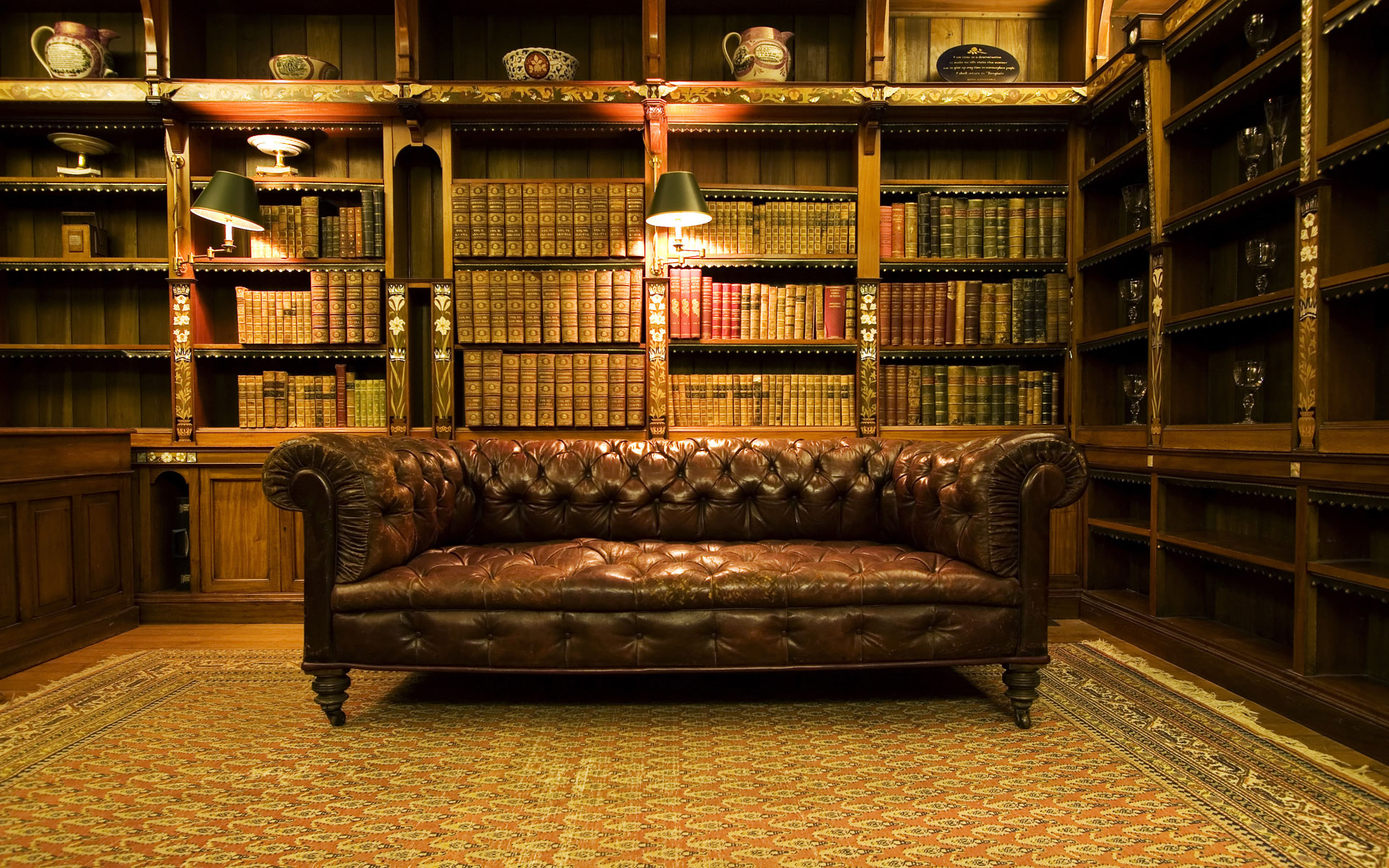
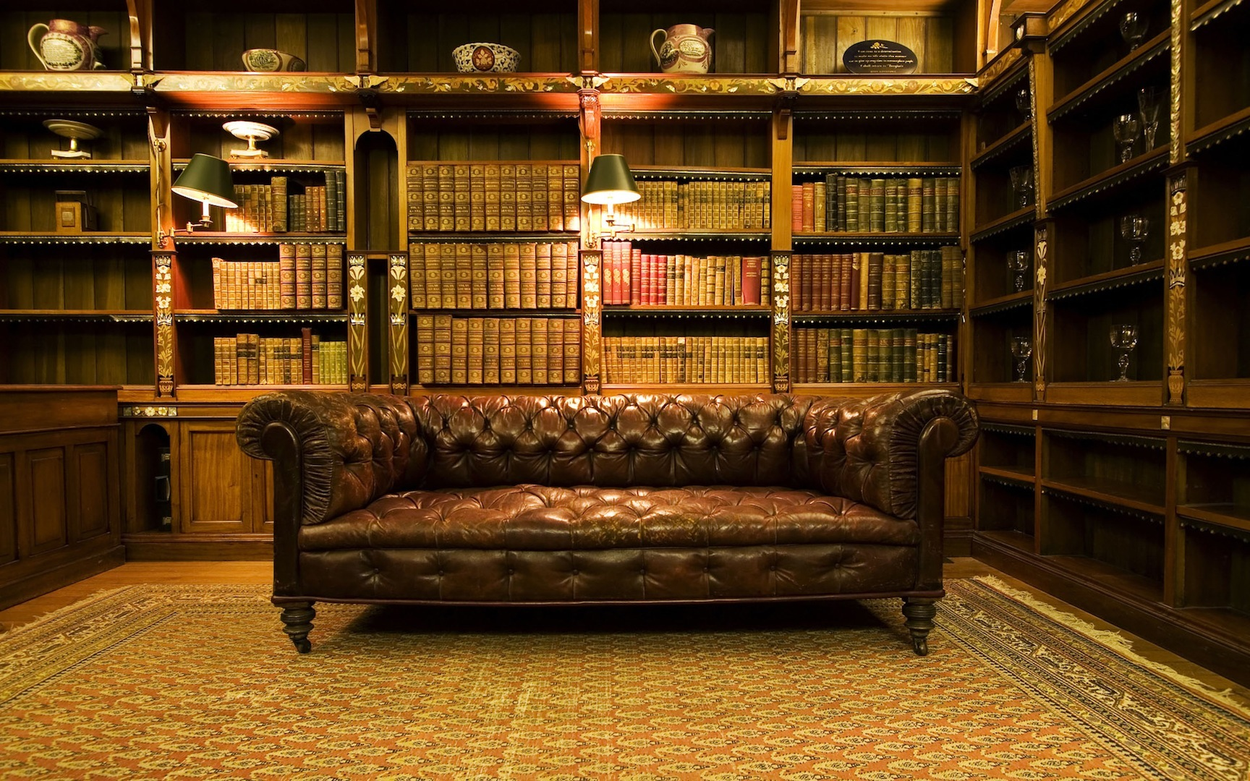
Game Intro
Game conducts a survey then takes them into the tour and starts the game

diff --git a/actionn.js b/actionn.js
@@ -41,127 +41,163 @@ function answer()
     } 
  }
 function timer(){
-  y = 10
- while(y > 0){
- y = y - 1;
- if(y <=0){
  document.getElementById( 'text' ).style.visibility = 'visible';
-       } 
-     }
+ document.getElementById( 'start' ).style.visibility = 'hidden';
+ document.getElementById( 'button' ).style.visibility = 'hidden';
+ image();
   }
+  function show(){
+   document.getElementById( 'button' ).style.visibility = 'visible';
+ }
+ function create(){
+  document.getElementById( 'input' ).style.visibility = 'visible';
+   document.getElementById( 'text' ).style.visibility = 'hidden';
+ 
+ 
+ }
+  
+  
   function hide(){
   document.getElementById( 'input' ).style.visibility = 'hidden';
   document.getElementById( 'text' ).style.visibility = 'hidden';
+  document.getElementById( 'button' ).style.visibility = 'hidden'
  }
   function start(){
    name=document.getElementById('nameBox').value
    if(document.getElementById('cs').checked===true && document.getElementById('jock').checked===true && document.getElementById('pen').checked===true ){
        document.getElementById('put').innerHTML= 'Hello '+name+' your major is computer science,<br> you are a jock, and you now have a pencil!';
        errors();
+       show();
        }
     else if(document.getElementById('cs').checked===true && document.getElementById('jock').checked===true && document.getElementById('phone').checked===true ){
        document.getElementById('put').innerHTML= 'Hello '+name+' your major is computer science,<br> you are a jock, and you now have a phone!';
        errors();
+       show();
        }
     else if(document.getElementById('cs').checked===true && document.getElementById('jock').checked===true && document.getElementById('rule').checked===true ){
        document.getElementById('put').innerHTML= 'Hello '+name+' your major is computer science,<br> you are a jock, and you now have a ruler!';
        errors();
+       show();
        }
     else if(document.getElementById('cs').checked===true && document.getElementById('nerd').checked===true && document.getElementById('pen').checked===true ){
        document.getElementById('put').innerHTML= 'Hello '+name+' your major is computer science,<br> you are a nerd, and you now have a pencil!';
        errors();
+       show();
        }
     else if(document.getElementById('cs').checked===true && document.getElementById('nerd').checked===true && document.getElementById('phone').checked===true ){
        document.getElementById('put').innerHTML= 'Hello '+name+' your major is computer science,<br> you are a nerd, and you now have a phone!';
        errors();
+       show();
        }
     else if(document.getElementById('cs').checked===true && document.getElementById('nerd').checked===true && document.getElementById('rule').checked===true ){
        document.getElementById('put').innerHTML= 'Hello '+name+' your major is computer science,<br> you are a nerd, and you now have a ruler!';
        errors();
+       show();
        }
     else if(document.getElementById('cs').checked===true && document.getElementById('pop').checked===true && document.getElementById('pen').checked===true ){
        document.getElementById('put').innerHTML= 'Hello '+name+' your major is computer science,<br> you are a popular kid, and you now have a pencil!';
        errors();
+       show();
        }
     else if(document.getElementById('cs').checked===true && document.getElementById('pop').checked===true && document.getElementById('phone').checked===true ){
        document.getElementById('put').innerHTML= 'Hello '+name+' your major is computer science,<br> you are a popular kid, and you now have a phone!';
        errors();
+       show();
        }
     else if(document.getElementById('cs').checked===true && document.getElementById('pop').checked===true && document.getElementById('rule').checked===true ){
        document.getElementById('put').innerHTML= 'Hello '+name+' your major is computer science,<br> you are a popular kid, and you now have a ruler!';
        errors();
+       show();
        }
     else if(document.getElementById('eng').checked===true && document.getElementById('jock').checked===true && document.getElementById('pen').checked===true ){
        document.getElementById('put').innerHTML= 'Hello '+name+' your major is english,<br> you are a jock, and you now have a pencil!';
        errors();
+       show();
        }
     else if(document.getElementById('eng').checked===true && document.getElementById('jock').checked===true && document.getElementById('phone').checked===true ){
        document.getElementById('put').innerHTML= 'Hello '+name+' your major is english,<br> you are a jock, and you now have a phone!';
        errors();
+       show();
        }
     else if(document.getElementById('eng').checked===true && document.getElementById('jock').checked===true && document.getElementById('rule').checked===true ){
        document.getElementById('put').innerHTML= 'Hello '+name+' your major is english,<br> you are a jock, and you now have a ruler!';
        errors();
+       show();
        }
     else if(document.getElementById('eng').checked===true && document.getElementById('nerd').checked===true && document.getElementById('pen').checked===true ){
        document.getElementById('put').innerHTML= 'Hello '+name+' your major is english,<br> you are a nerd, and you now have a pencil!';
        errors();
+       show();
        }
     else if(document.getElementById('eng').checked===true && document.getElementById('nerd').checked===true && document.getElementById('phone').checked===true ){
        document.getElementById('put').innerHTML= 'Hello '+name+' your major is english,<br> you are a nerd, and you now have a phone!';
        errors();
+       show();
        }
     else if(document.getElementById('eng').checked===true && document.getElementById('nerd').checked===true && document.getElementById('rule').checked===true ){
        document.getElementById('put').innerHTML= 'Hello '+name+' your major is english,<br> you are a nerd, and you now have a ruler!';
        errors();
+       show();
        }
     else if(document.getElementById('eng').checked===true && document.getElementById('pop').checked===true && document.getElementById('pen').checked===true ){
        document.getElementById('put').innerHTML= 'Hello '+name+' your major is english,<br> you are a popular kid, and you now have a pencil!';
        errors();
+       show();
        }
     else if(document.getElementById('eng').checked===true && document.getElementById('pop').checked===true && document.getElementById('phone').checked===true ){
        document.getElementById('put').innerHTML= 'Hello '+name+' your major is english,<br> you are a popular kid, and you now have a phone!';
        errors();
+       show();
        }
     else if(document.getElementById('eng').checked===true && document.getElementById('pop').checked===true && document.getElementById('rule').checked===true ){
        document.getElementById('put').innerHTML= 'Hello '+name+' your major is english,<br> you are a popular kid, and you now have a ruler!';
        errors();
+        show();
        }
     else if(document.getElementById('math').checked===true && document.getElementById('jock').checked===true && document.getElementById('pen').checked===true ){
        document.getElementById('put').innerHTML= 'Hello '+name+' your major is math,<br> you are a jock, and you now have a pencil!';
        errors();
+        show();
        }
     else if(document.getElementById('math').checked===true && document.getElementById('jock').checked===true && document.getElementById('phone').checked===true ){
        document.getElementById('put').innerHTML= 'Hello '+name+' your major is math,<br> you are a jock, and you now have a phone!';
        errors();
+        show();
        }
     else if(document.getElementById('math').checked===true && document.getElementById('jock').checked===true && document.getElementById('rule').checked===true ){
        document.getElementById('put').innerHTML= 'Hello '+name+' your major is math,<br> you are a jock, and you now have a ruler!';
        errors();
+        show();
        }
      else if(document.getElementById('math').checked===true && document.getElementById('nerd').checked===true && document.getElementById('pen').checked===true ){
        document.getElementById('put').innerHTML= 'Hello '+name+' your major is math,<br> you are a nerd, and you now have a pencil!';
        errors();
+        show();
        }
      else if(document.getElementById('math').checked===true && document.getElementById('nerd').checked===true && document.getElementById('phone').checked===true ){
        document.getElementById('put').innerHTML= 'Hello '+name+' your major is math,<br> you are a nerd, and you now have a phone!';
        errors();
+        show();
        }
      else if(document.getElementById('math').checked===true && document.getElementById('nerd').checked===true && document.getElementById('rule').checked===true ){
        document.getElementById('put').innerHTML= 'Hello '+name+', your major is math,<br> you are a nerd, and you now have a ruler!';
        errors();
+        show();
        }
      else if(document.getElementById('math').checked===true && document.getElementById('pop').checked===true && document.getElementById('pen').checked===true ){
        document.getElementById('put').innerHTML= 'Hello '+name+' your major is math,<br> you are a popular kid, and you now have a pencil!';
        errors();
+        show();
        }
      else if(document.getElementById('math').checked===true && document.getElementById('pop').checked===true && document.getElementById('phone').checked===true ){
        document.getElementById('put').innerHTML= 'Hello '+name+' your major is math,<br> you are a popular kid, and you now have a phone!';
        errors();
+        show();
        }
     else if(document.getElementById('math').checked===true && document.getElementById('pop').checked===true && document.getElementById('rule').checked===true ){
        document.getElementById('put').innerHTML= 'Hello '+name+' your major is math,<br> you are a popular kid, and you now have a ruler!';
        errors();
+        show();
        }
    
    
@@ -172,23 +208,35 @@ function timer(){
     
 }
 
+function NoMoreThanOne($in1, $in2, $in3){
+	var int = 0;
+	if(document.getElementById($in1).checked){int++;}
+	if(document.getElementById($in2).checked){int++;}
+	if(document.getElementById($in3).checked){int++;}
+	if(int == 1){
+		return true;
+	}else{
+		return false;
+	}
+
+
+}
 
 function errors(){
- if(document.getElementById('cs').checked===true && document.getElementById('eng').checked===true && document.getElementById('math').checked===true ){
-  alert("Too Many Checked!");
-   document.getElementById('put').innerHTML= '';
+	if(!NoMoreThanOne('cs', 'eng', 'math') || !NoMoreThanOne('jock', 'nerd', 'pop') || !NoMoreThanOne('pen', 'phone', 'rule')){
+		alert("You have checked too many only select one from each column!");
+   		document.getElementById('put').innerHTML= '';
    }
-    else if(document.getElementById('jock').checked===true && document.getElementById('nerd').checked===true && document.getElementById('pop').checked===true) {
-    alert("Too Many Checked!");
-        }
-    
-     else if(document.getElementById('pen').checked===true && document.getElementById('phone').checked===true && document.getElementById('rule').checked===true) {
-    alert("Too Many Checked!");
-        }
-    
-
         
 }
+function image(){
+document.body.style.backgroundImage="url('images/library.jpg')";
+
+
+
+}
+
+ 
 
  
  

diff --git a/action.html b/action.html
@@ -19,8 +19,10 @@
 <body>
 <div id='start'>
 <h1>Marist Survey</h1>
-<h4> It is mandatory all participants of our tour fill out out survey!</h4>
-	<p>
+<div id="text">
+<div style="text-align:center"><font color="yellow"><h2> The Marist tour has left you behind while in the library.<br>
+Can you find your group again before getting lost in the library forever?</font></h2> <button onclick="create();">Yes</button></div></div> 
+<h5> Your choices will impact you later in the tour!</h5>
 	Enter your name:
 		<input type="text" id="nameBox" size="20" value="" />
 		<br>
@@ -29,13 +31,13 @@
 		<input type="checkbox" name="CS" id="cs"></input><label>Computer Science</label> &nbsp;&nbsp;&nbsp;&nbsp;
 		<input type="checkbox" name="MK" id="eng"></input><label>English</label> &nbsp;&nbsp;&nbsp;&nbsp;
 	    <input type="checkbox" name="MA" id="math"></input><label>Math</label>
-		<br>
-		<br>
-    Select favorite click:
+	    <br>	
+	    <br>
+	Select favorite click:
       <input type="checkbox" name="JO" id="jock"></input><label>Jock</label> &nbsp;&nbsp;&nbsp;&nbsp;
 		<input type="checkbox" name="NE" id="nerd"></input><label>Nerd</label> &nbsp;&nbsp;&nbsp;&nbsp;
 	    <input type="checkbox" name="PO" id="pop"></input><label>Populars</label>
-		 <br>
+		 <br>	
 		 <br>
     Select item:
 		<input type="checkbox" name="PE" id="pen"></input><label>Pencil</label> &nbsp;&nbsp;&nbsp;&nbsp;
@@ -46,31 +48,12 @@
 	    onclick="start();">
 	    <br>
 	    <br>
-	    <div id="put"></div>
-
-</div>
-</body>
-<body>
-<div id='text'>
- <div style="text-align:center">
- <br>
- <br>
- <br>
- <br>
- <br>
- <br>
- <font color="yellow">
- <p>
- <h2>
- The Marist tour has left you behind while in the library.<br> 
- Can you find your group again before getting lost in the library forever?
-    </p>
-    </font>
-    <button onclick="timer();">Yes</button>
-    </div>
-    </h2>
+	    <div id="put"></div> 
 	</div>
-	<div id='input'>
+</body>
+&nbsp;&nbsp;&nbsp;&nbsp;&nbsp;&nbsp;&nbsp;<div id="button"><button onclick="timer();">Begin Tour</button></div>
+<body>
+ <div id='input'>
 	<label for="actionInput"><font color="white">What do you want to do?</font></label>
 	<input id="x" type="text" size="27">
 	<button type="button" size="27" onclick="answer();">Enter</button>
